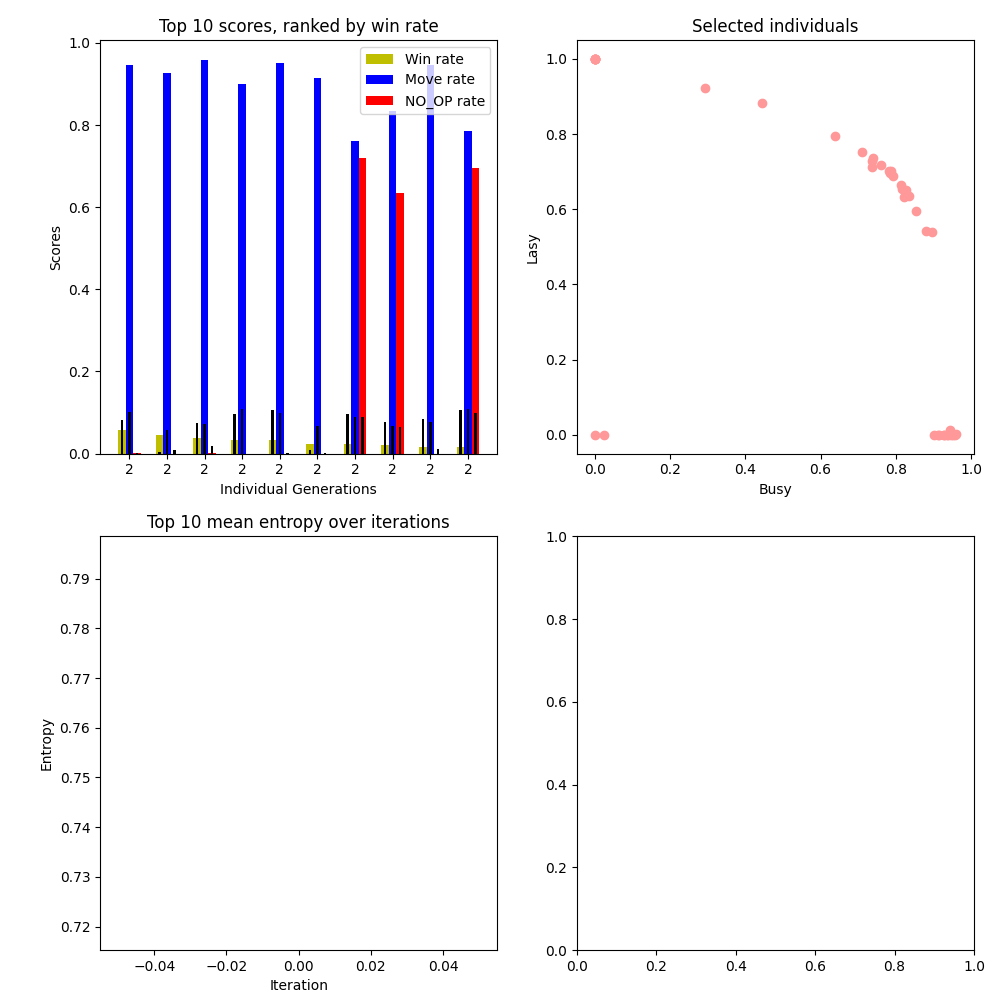
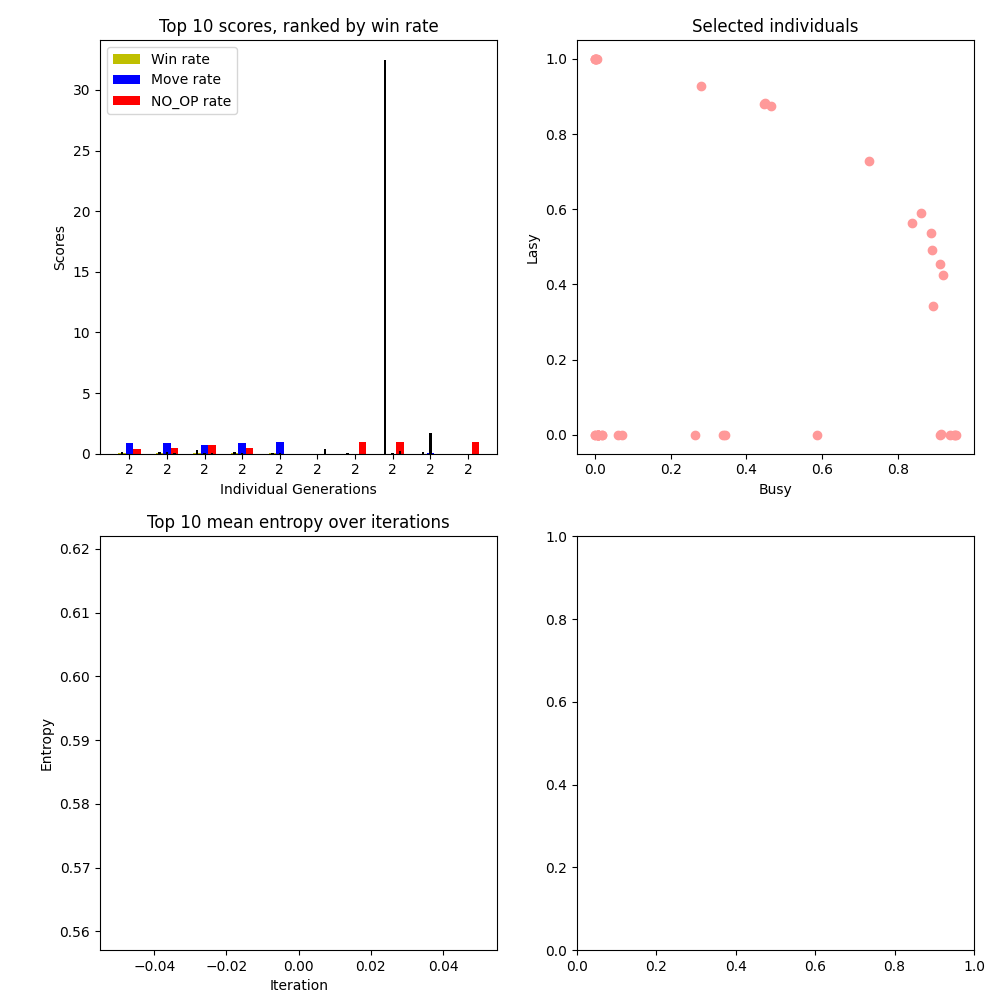
3-16

diff --git a/population.py b/population.py
@@ -42,7 +42,7 @@ class Individual:
 class LightIndividual:
     def __init__(self, goal_dim, generation=1):
 
-        self.reward_weight = np.random.lognormal(-1, 3, (goal_dim,))
+        self.reward_weight = np.clip(np.random.lognormal(-1, 3, (goal_dim,)), 0, 10) / 10.0
         self.reward_weight[0] *= 2
         self.behavior_stats = {}
         self.gen = generation
